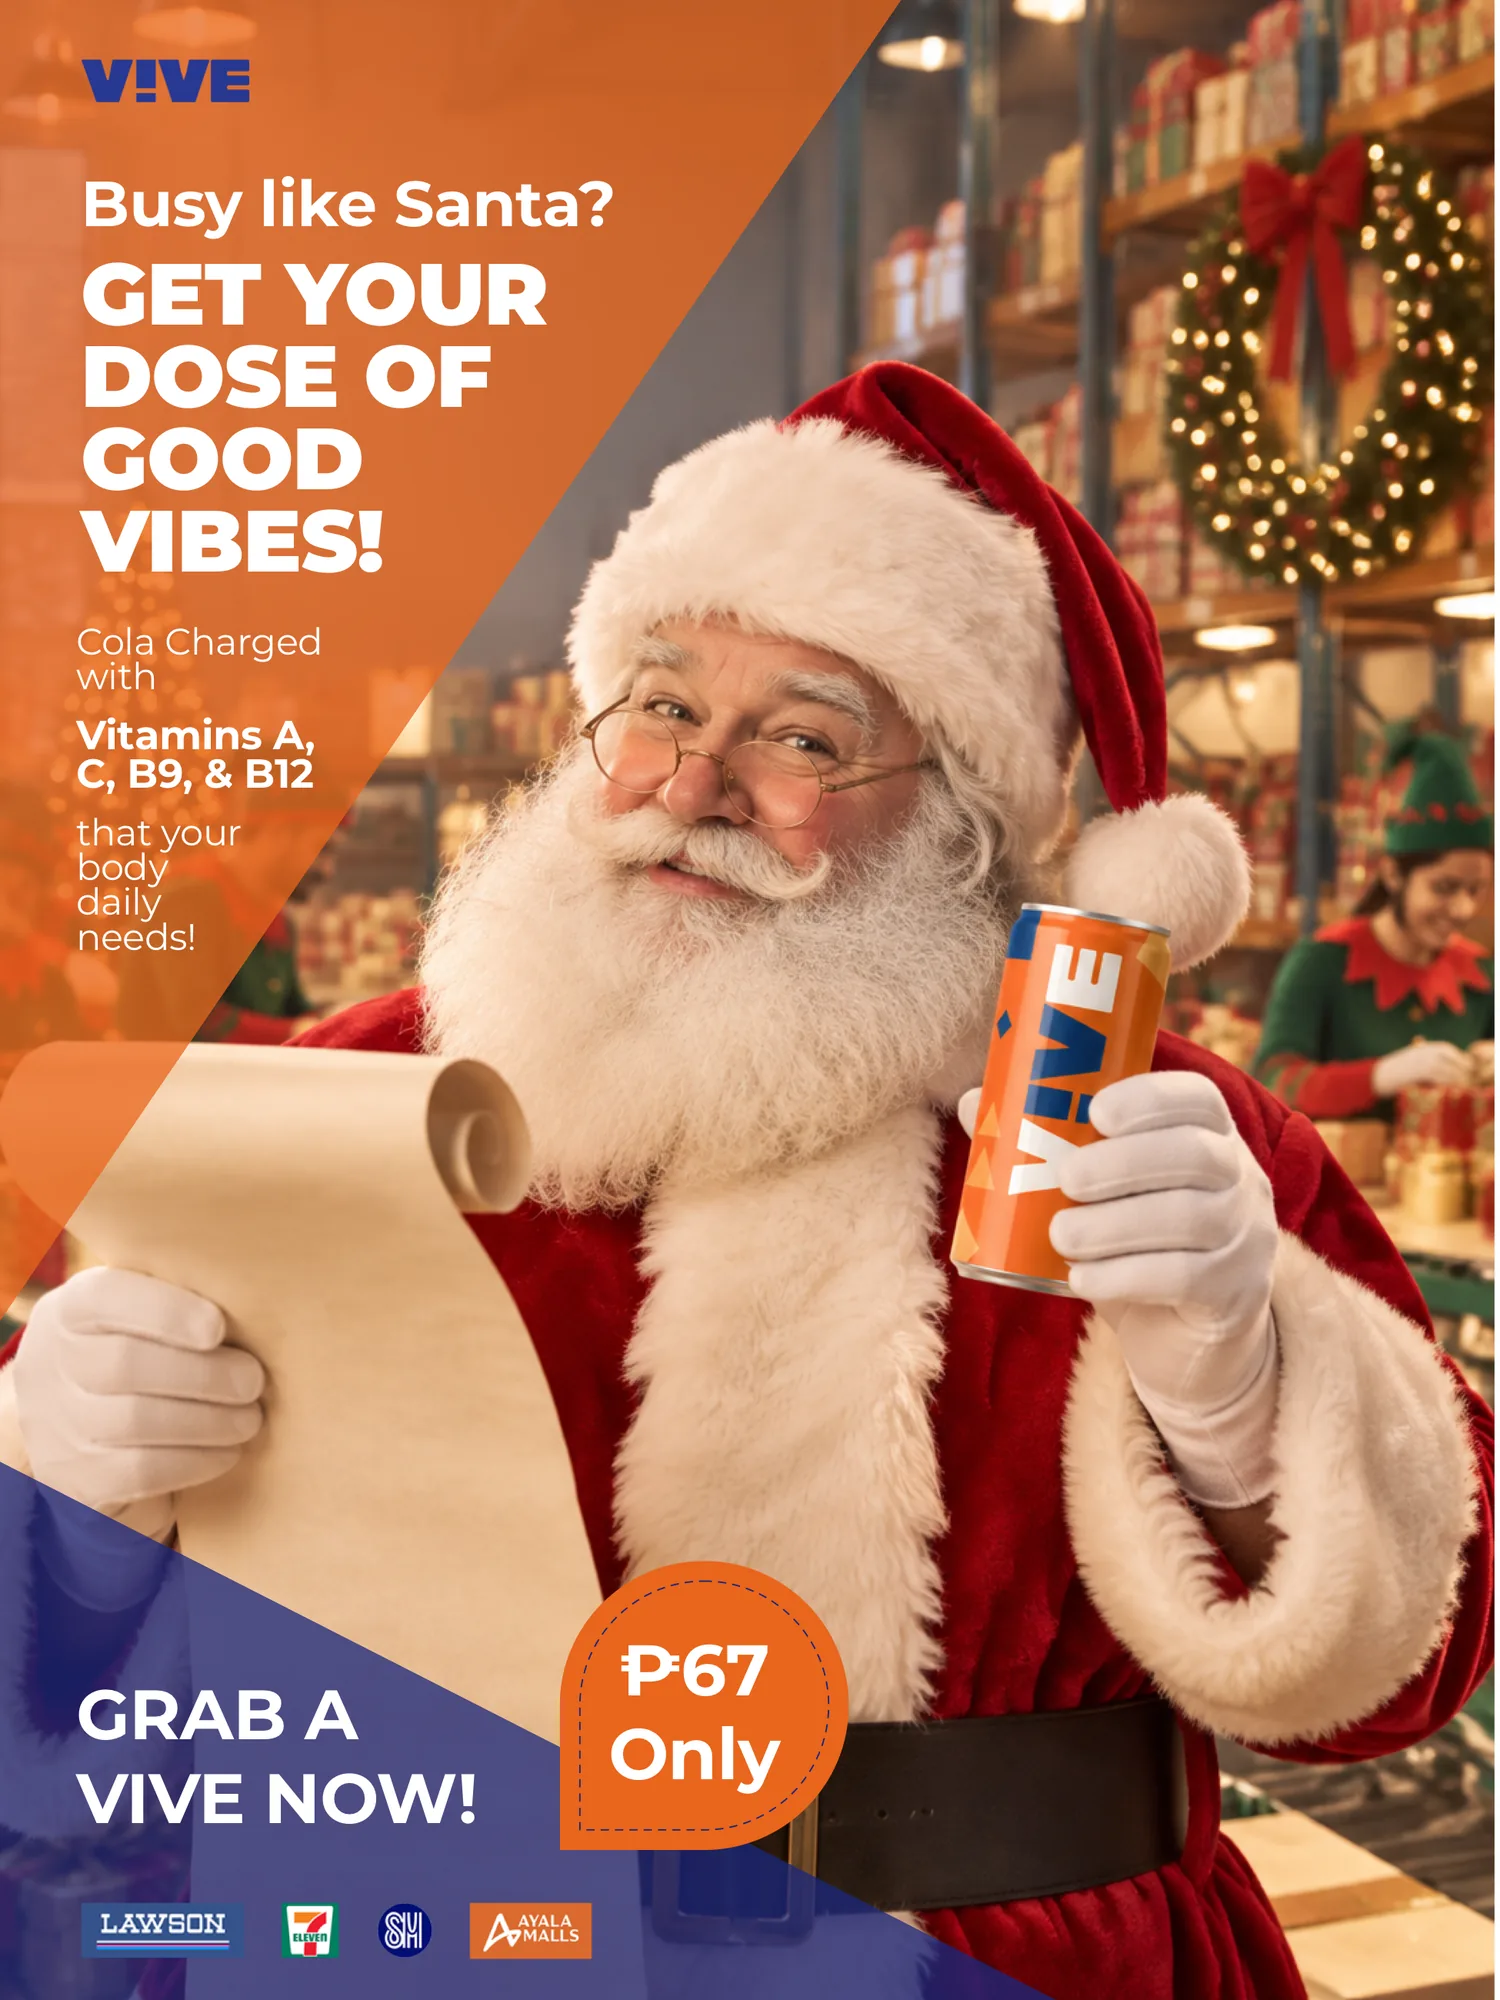
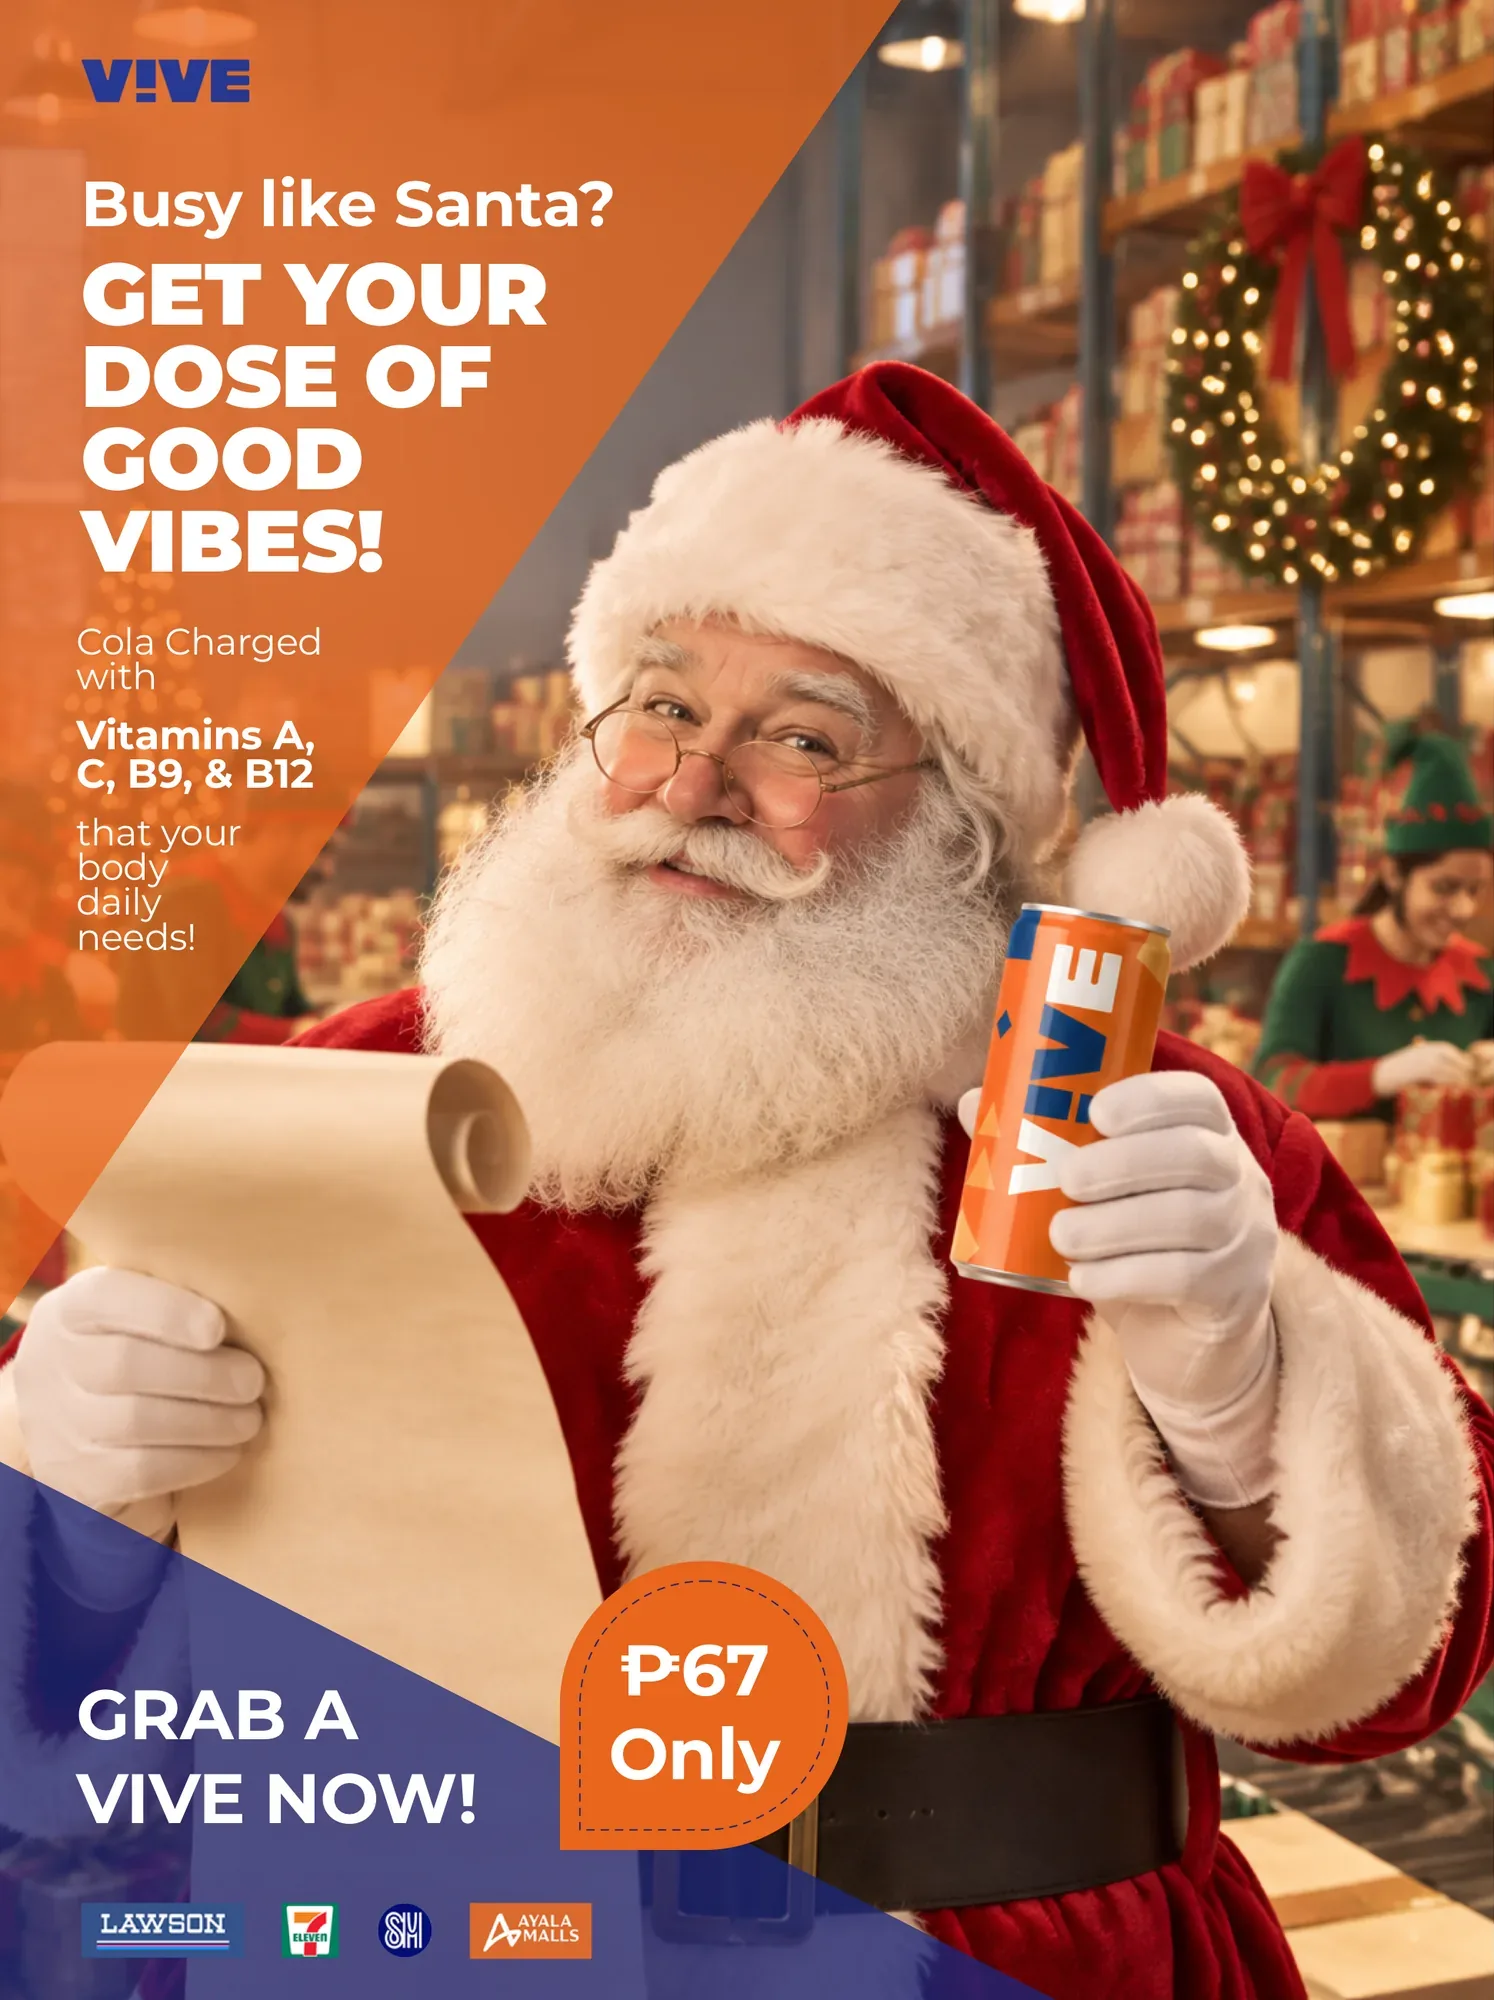
fix(home): Trim white edges from two Christmas posters
- Crop the white strip on the right of Venson's poster and the thin
  light lines on the top and right of Aya's, in both image sizes.
- Record the current page status, the locked web portal poster, and the
  open checks in CONTEXT.md.

Assisted-by: Anthropic Claude Code (Opus 5.5)

diff --git a/index.html b/index.html
@@ -218,9 +218,9 @@
   <ul class="seasonal" aria-labelledby="more-title">
     <li class="lift-zone" style="--ar:0.707"><button type="button" data-full="assets/seasonal/christmas-czar-full.webp" data-title="Sleigh the holidays with a charged Christmas spirit"><span class="lift"><img src="assets/seasonal/christmas-czar-thumb.webp" alt="Christmas poster: a VIVE Classic can in a Santa hat rides a red sleigh under the line “Sleigh the holidays with a charged Christmas spirit.”" width="636" height="900" loading="lazy"></span></button></li>
     <li class="lift-zone" style="--ar:0.8"><button type="button" data-full="assets/seasonal/christmas-louie-full.webp" data-title="Have a chilling VIVE this Christmas"><span class="lift"><img src="assets/seasonal/christmas-louie-thumb.webp" alt="Christmas poster: a VIVE Classic can wrapped in a knit scarf stands among skiers in the snow, under the line “Have a chilling VIVE this Christmas.”" width="720" height="900" loading="lazy"></span></button></li>
-    <li class="lift-zone" style="--ar:0.75"><button type="button" data-full="assets/seasonal/christmas-venson-full.webp" data-title="Busy like Santa? Get your dose of good vibes"><span class="lift"><img src="assets/seasonal/christmas-venson-thumb.webp" alt="Christmas poster: Santa reads his list in the workshop and raises a VIVE Classic can, under the line “Busy like Santa? Get your dose of good vibes.”" width="675" height="900" loading="lazy"></span></button></li>
+    <li class="lift-zone" style="--ar:0.747"><button type="button" data-full="assets/seasonal/christmas-venson-full.webp" data-title="Busy like Santa? Get your dose of good vibes"><span class="lift"><img src="assets/seasonal/christmas-venson-thumb.webp" alt="Christmas poster: Santa reads his list in the workshop and raises a VIVE Classic can, under the line “Busy like Santa? Get your dose of good vibes.”" width="672" height="900" loading="lazy"></span></button></li>
     <li class="lift-zone" style="--ar:0.707"><button type="button" data-full="assets/seasonal/christmas-warren-full.webp" data-title="Ignite your festive fire"><span class="lift"><img src="assets/seasonal/christmas-warren-thumb.webp" alt="Christmas poster: a frosted VIVE Classic can stands in a snowy mountain scene framed by pine branches, under the line “Ignite your festive fire.”" width="637" height="900" loading="lazy"></span></button></li>
-    <li class="lift-zone" style="--ar:0.707"><button type="button" data-full="assets/seasonal/christmas-aya-full.webp" data-title="Charge up your holidays with festive vibes"><span class="lift"><img src="assets/seasonal/christmas-aya-thumb.webp" alt="Christmas poster: VIVE Classic cans hang like ornaments on a snowy tree beside the line “Charge up your holidays with festive vibes.”" width="636" height="900" loading="lazy"></span></button></li>
+    <li class="lift-zone" style="--ar:0.706"><button type="button" data-full="assets/seasonal/christmas-aya-full.webp" data-title="Charge up your holidays with festive vibes"><span class="lift"><img src="assets/seasonal/christmas-aya-thumb.webp" alt="Christmas poster: VIVE Classic cans hang like ornaments on a snowy tree beside the line “Charge up your holidays with festive vibes.”" width="636" height="900" loading="lazy"></span></button></li>
   </ul>
   <dialog class="poster-view" id="poster-view" closedby="any" aria-labelledby="poster-view-title">
     <img alt="">

diff --git a/CONTEXT.md b/CONTEXT.md
@@ -6,10 +6,16 @@ This document is the canonical router and functional contract for the VIVE four-
 
 | Page | File | Status | Input Dependencies | Human Check Gate |
 |---|---|---|---|---|
-| 01 Home | [index.html](index.html) | Draft v2 complete | `assets/`, `brand-spec.md`, `direction-approved.md` | Gian / Client review of hero, posters, and video layout |
+| 01 Home | [index.html](index.html) | Draft v3 complete: team Glow, Classic, and Focus posters; Christmas section with full-size viewer | `assets/`, `brand-spec.md`, `direction-approved.md` | Gian / Client review of hero, posters, and video layout |
 | 02 About Us | [about.html](about.html) | Draft v1 complete | Founding story, team roster, and team photos | Verify complete names, company roles, and photo look |
 | 03 Product | [product.html](product.html) | Draft v1 complete | Can renders, flavor specifications, and nutritional facts | Verify one variant per strip, zero posters, and zero merch |
-| 04 Shop | [shop.html](shop.html) | Draft v1 complete | Merch catalog, bundle definitions, and pricing | Verify quantity inputs, cart count behavior, zero checkout |
+| 04 Shop | [shop.html](shop.html) | Draft v2 complete: transparent can renders and the scene hover reveal | Merch catalog, bundle definitions, and pricing | Verify quantity inputs, cart count behavior, zero checkout |
+| Web portal poster | [router.html](router.html) → `VIVE.pdf` on Drive | Locked: Three Columns (2026-11-18), see [direction-approved.md](direction-approved.md) | Can renders, `site.css` tokens | Change only when the client asks; rebuild by hand with `scripts/build_router_pdf.py` |
+
+**Open checks (as of 2026-11-18, commit `6225632`):**
+- The team's Classic poster headline reads "Your dose of radiant vibes" (the Glow line); a corrected export is needed (see [brand-spec.md](brand-spec.md)).
+- Not yet seen in Firefox or Safari: the cart panel exit fallback and the Christmas viewer's light-dismiss fallback. The open viewer was also never captured in a screenshot.
+- `source/deck-extract/brand-assets-contact-sheet.png` still shows the old outline shapes; its build script needs headless Brave.
 
 ---
 
